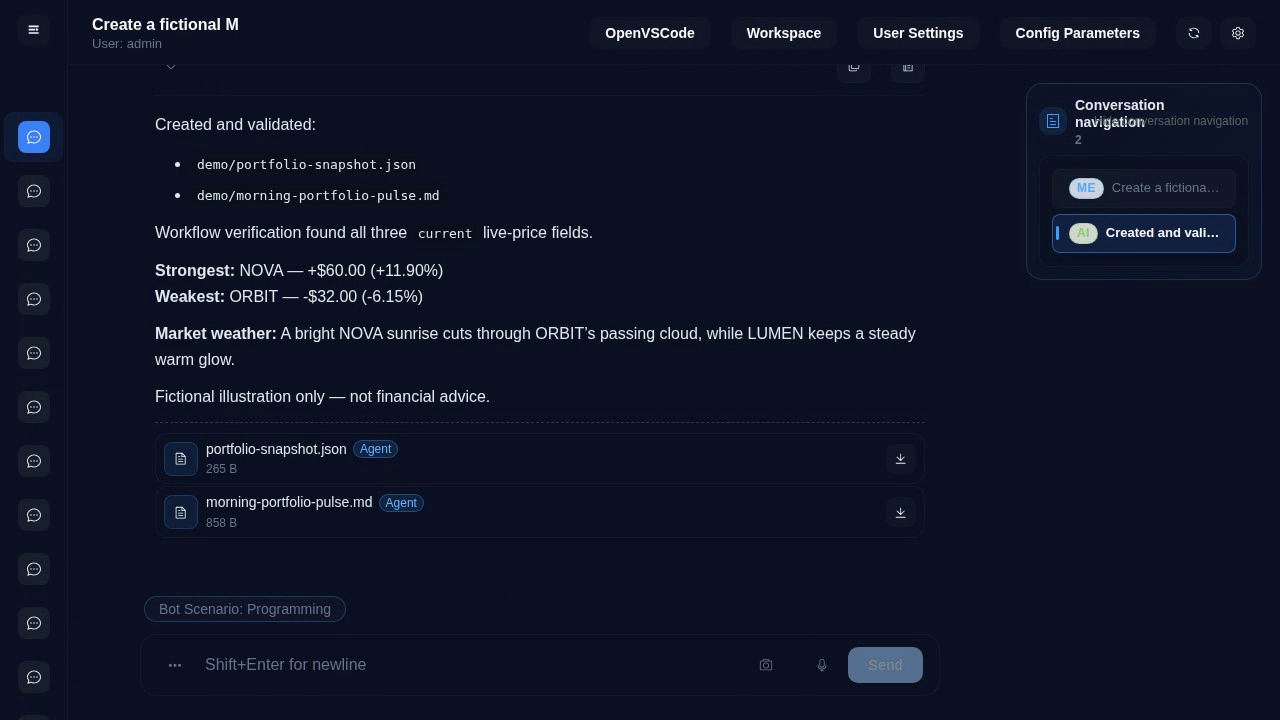
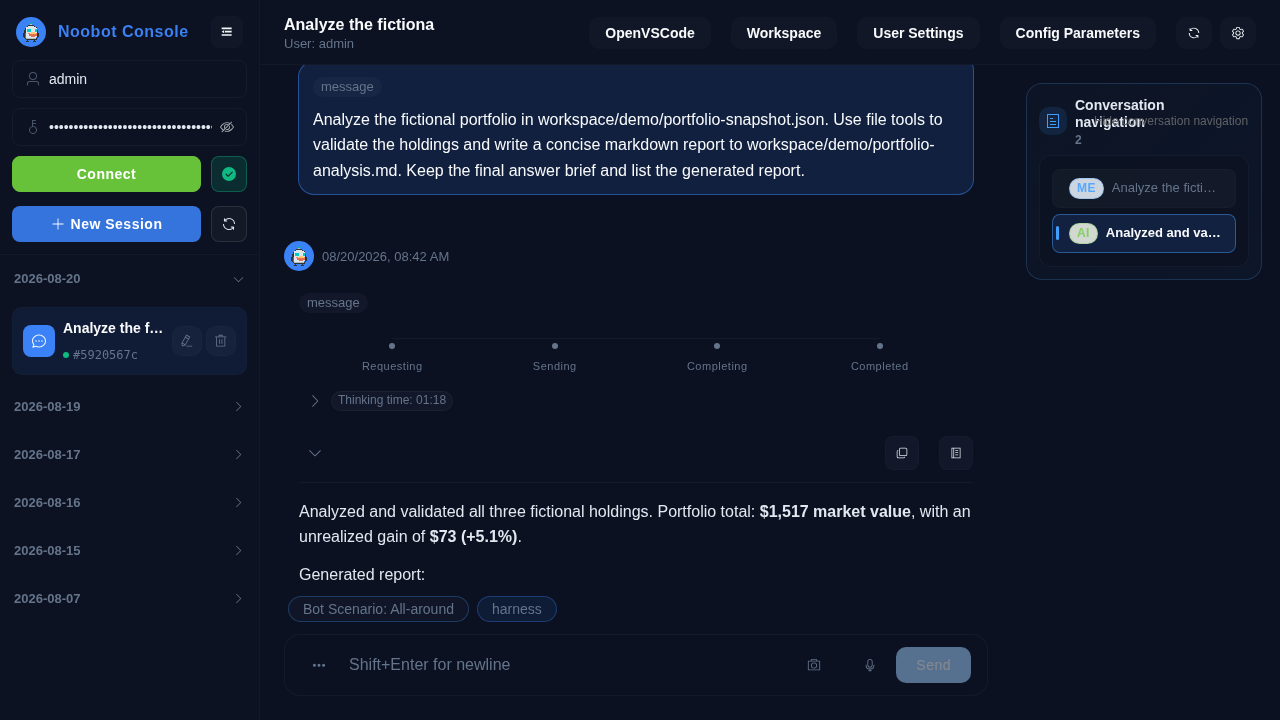
fix: patch security vulnerabilities
- Fixed identified security vulnerabilities.
- Improved system security and reliability.
- Hardened related components and validation logic.

diff --git a/README.md b/README.md
@@ -11,7 +11,7 @@
 [![License: MIT](https://img.shields.io/badge/License-MIT-yellow.svg)](./LICENSE)
 ![Node](https://img.shields.io/badge/node-%3E%3D22.22.2-blue)
 
-[Download the latest Windows or macOS release](https://github.com/xiayu1987/noobot/releases/latest) · [Configuration](./CONFIGURATION.md) · [Discussions](https://github.com/xiayu1987/noobot/discussions)
+[Windows installer](https://github.com/xiayu1987/noobot/releases/latest) (choose `Noobot.Setup.<version>.exe`) · [macOS package](https://github.com/xiayu1987/noobot/releases/latest) (choose `Noobot-<version>-mac.zip`) · [Configuration](./CONFIGURATION.md) · [Discussions](https://github.com/xiayu1987/noobot/discussions)
 
 Noobot is an open-source Web and desktop AI agent application built with Node.js, Vue 3, and Electron. It provides isolated user workspaces, durable sessions, extensible tools, semantic workflows, and OpenAI-compatible or DashScope model access from one self-hosted deployment.
 
@@ -42,42 +42,12 @@ An English demo of a fictional portfolio analysis: Noobot verifies source data, 
 
 ## Get Noobot
 
-| Option          | Best for                         | Start here                                                            |
-| --------------- | -------------------------------- | --------------------------------------------------------------------- |
-| Windows desktop | Local desktop use                | [Latest release](https://github.com/xiayu1987/noobot/releases/latest) |
-| macOS desktop   | Local desktop use                | [Latest release](https://github.com/xiayu1987/noobot/releases/latest) |
-| Self-hosted Web | Server or development deployment | [`./start.sh`](#quick-start)                                          |
-
-## Project Structure
-
-```text
-noobot/
-├── agent/                    # Agent core (tools, context, execution flow)
-├── service/                  # Node.js backend (Express 5 + WebSocket + LangChain)
-├── agent-proxy/              # Agent proxy gateway (WebSocket fanout, replay, HTTP proxy)
-├── model-proxy/              # Model proxy layer
-├── workflow/                 # Semantic workflow engine
-├── plugin/
-│   ├── noobot-plugin-harness/  # Harness execution plugin
-│   └── noobot-plugin-workflow/ # Workflow integration plugin
-├── runtime-events/           # Structured startup/session/system event library
-├── sanitize/                 # Shared output and sensitive-data sanitization
-├── shared/                   # Shared thresholds and runtime configuration
-├── i18n/                     # Shared i18n package
-├── client/
-│   ├── noobot-chat/          # Vue 3 web client (Vite)
-│   ├── startup/              # Startup UI
-│   ├── windows/              # Windows Electron packaging
-│   ├── mac/                  # macOS Electron packaging
-│   └── shared/               # Client-side shared code
-├── scripts/                  # Release, launcher, and repository checks
-├── docs/                     # Architecture / refactor docs
-├── user-template/            # User workspace template
-├── workspace/                # Local runtime user data (not source code)
-├── start.sh                  # one-command startup/deploy script
-├── stop-services.sh          # stop the local PM2 applications
-└── README.md
-```
+| Option                   | Download or command                                                                                             | Notes                                     |
+| ------------------------ | --------------------------------------------------------------------------------------------------------------- | ----------------------------------------- |
+| Windows installer        | [Latest release](https://github.com/xiayu1987/noobot/releases/latest), then choose `Noobot.Setup.<version>.exe` | Recommended for Windows                   |
+| Windows packaged archive | [Latest release](https://github.com/xiayu1987/noobot/releases/latest), then choose `Noobot-<version>-win.zip`   | ZIP distribution without the setup wizard |
+| macOS packaged archive   | [Latest release](https://github.com/xiayu1987/noobot/releases/latest), then choose `Noobot-<version>-mac.zip`   | Packaged macOS desktop client             |
+| Self-hosted Web          | [`./start.sh`](#quick-start)                                                                                    | Linux or macOS server deployment          |
 
 ## Quick Start
 

diff --git a/README.zh-CN.md b/README.zh-CN.md
@@ -11,7 +11,7 @@
 [![License: MIT](https://img.shields.io/badge/License-MIT-yellow.svg)](./LICENSE)
 ![Node](https://img.shields.io/badge/node-%3E%3D22.22.2-blue)
 
-[下载最新 Windows 或 macOS 版本](https://github.com/xiayu1987/noobot/releases/latest) · [配置文档](./CONFIGURATION.zh-CN.md) · [参与讨论](https://github.com/xiayu1987/noobot/discussions)
+[Windows 安装程序](https://github.com/xiayu1987/noobot/releases/latest)（选择 `Noobot.Setup.<版本>.exe`）· [macOS 客户端](https://github.com/xiayu1987/noobot/releases/latest)（选择 `Noobot-<版本>-mac.zip`）· [配置文档](./CONFIGURATION.zh-CN.md) · [参与讨论](https://github.com/xiayu1987/noobot/discussions)
 
 Noobot 是基于 Node.js、Vue 3 和 Electron 构建的开源 Web 与桌面 AI Agent 应用。它在一个自托管部署中提供隔离用户工作区、持久会话、可扩展工具、语义工作流，以及 OpenAI 兼容接口和 DashScope 模型接入。
 
@@ -42,42 +42,12 @@ Noobot 是基于 Node.js、Vue 3 和 Electron 构建的开源 Web 与桌面 AI A
 
 ## 获取 Noobot
 
-| 方式           | 适用场景         | 入口                                                            |
-| -------------- | ---------------- | --------------------------------------------------------------- |
-| Windows 桌面端 | 本地桌面使用     | [最新版本](https://github.com/xiayu1987/noobot/releases/latest) |
-| macOS 桌面端   | 本地桌面使用     | [最新版本](https://github.com/xiayu1987/noobot/releases/latest) |
-| 自托管 Web     | 服务器部署或开发 | [`./start.sh`](#快速开始)                                       |
-
-## 项目结构
-
-```text
-noobot/
-├── agent/                    # Agent 核心（工具、上下文、执行流）
-├── service/                  # Node.js 后端（Express 5 + WebSocket + LangChain）
-├── agent-proxy/              # Agent 代理网关（WebSocket 扇出、消息重放、HTTP 代理）
-├── model-proxy/              # 模型代理层
-├── workflow/                 # 语义工作流引擎
-├── plugin/
-│   ├── noobot-plugin-harness/  # Harness 执行插件
-│   └── noobot-plugin-workflow/ # 工作流集成插件
-├── runtime-events/           # 启动/会话/系统结构化事件库
-├── sanitize/                 # 输出与敏感数据清洗
-├── shared/                   # 共享阈值与运行配置
-├── i18n/                     # 共享 i18n 包
-├── client/
-│   ├── noobot-chat/          # Vue 3 Web 客户端（Vite）
-│   ├── startup/              # 启动页
-│   ├── windows/              # Windows Electron 打包
-│   ├── mac/                  # macOS Electron 打包
-│   └── shared/               # 客户端共享代码
-├── scripts/                  # 发布、启动引导与仓库检查脚本
-├── docs/                     # 架构/重构文档
-├── user-template/            # 用户工作区模板
-├── workspace/                # 本地运行时用户数据（非源码）
-├── start.sh                  # 一键启动/部署脚本
-├── stop-services.sh          # 停止本地 PM2 应用
-└── README.md
-```
+| 方式             | 下载或命令                                                                                          | 说明                        |
+| ---------------- | --------------------------------------------------------------------------------------------------- | --------------------------- |
+| Windows 安装程序 | 进入[最新版本](https://github.com/xiayu1987/noobot/releases/latest)，选择 `Noobot.Setup.<版本>.exe` | Windows 推荐下载方式        |
+| Windows 打包归档 | 进入[最新版本](https://github.com/xiayu1987/noobot/releases/latest)，选择 `Noobot-<版本>-win.zip`   | 不使用安装向导的 ZIP 分发包 |
+| macOS 打包归档   | 进入[最新版本](https://github.com/xiayu1987/noobot/releases/latest)，选择 `Noobot-<版本>-mac.zip`   | 已打包的 macOS 桌面客户端   |
+| 自托管 Web       | [`./start.sh`](#快速开始)                                                                           | Linux 或 macOS 服务器部署   |
 
 ## 快速开始
 
